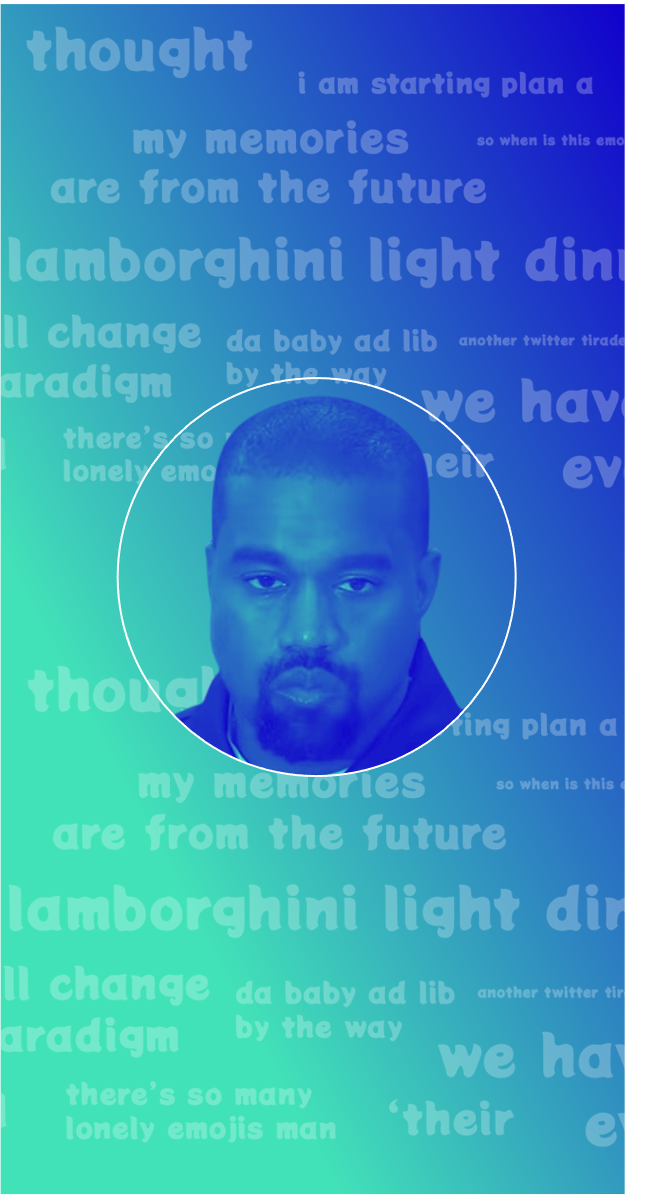
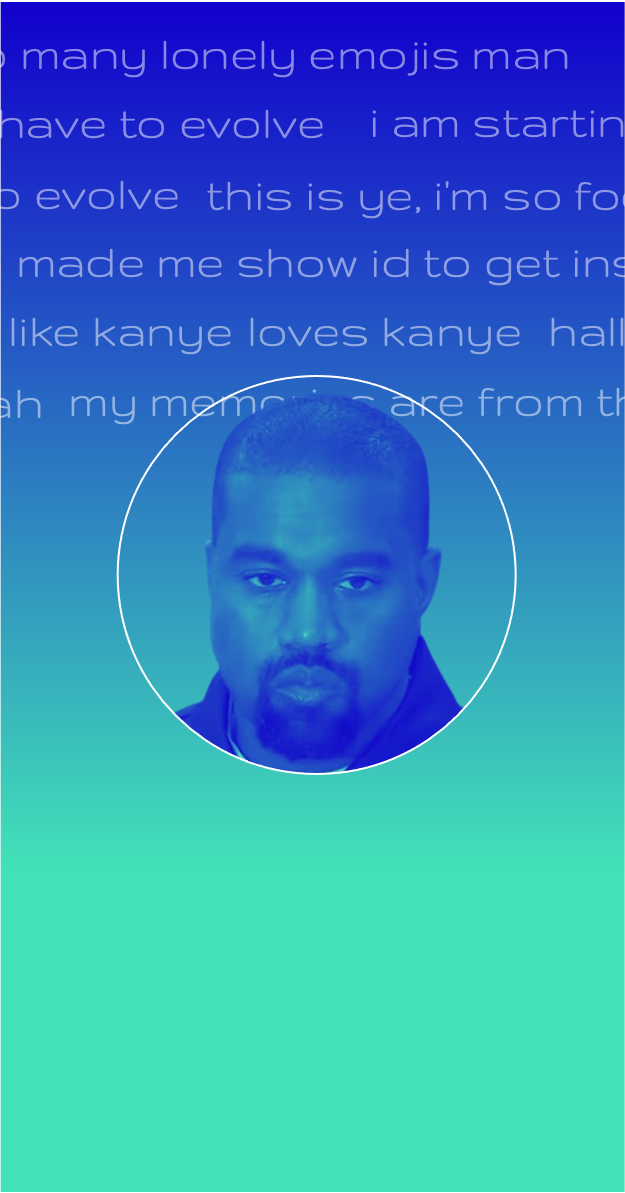
Updated font on website

diff --git a/web/index.html b/web/index.html
@@ -8,7 +8,7 @@
         <link href="https://fonts.googleapis.com/icon?family=Material+Icons" rel="stylesheet"><!--Google Icons-->
         <script src="Default/Script/jquery-3.6.0.min.js"></script>
         <style>
-            #tweet-cloud-banner {background-image:url(Assets/Images/ye_say/ye_tweet_cloud.png);}
+            #tweet-cloud-banner {background-image:url(Assets/Images/ye_say/ye_tweet_lyric_cloud.png);}
             #kanye-stpablo-banner {background-image: url(Assets/Images/Kanye_West_Saint_Pablo_Tour.jpg);}
         </style>
     </head>
@@ -104,9 +104,10 @@
                     <p>
                         Ye Say (pronounced YAY-SAY) is the world's most powerful Discord bot. Driven by <a href="https://twitter.com/KanyeWest/" target="_blank" rel="noreferrer noopener">@KanyeWest</a>, one of the intellectual pioneers of our time, Ye-Say provides intelligent solutions to even the most complex questions<sup>1</sup>.
                     </p>
-                    <img class="img-main" src="Assets/Images/ye_say/iPhone_Mockup/ye_say_mockup-banner_iphone13prographite_portrait.png" alt="Kanye on the iPhone">
+                    <img class="img-main" src="Assets/Images/ye_say/iPhone_Mockup/ye_say_mockup-banner_iphonesewhite_portrait.png" alt="Kanye on the iPhone">
                     <h2>From Ye, to You.</h2>
                     <p>Responsibly sourced insights, because psychic spying is naughty.</p>
+                    <div class="spacer"></div>
                     <div class="grid-container two-columns">
                         <div>
                             <div class="icon-lg">
@@ -114,7 +115,7 @@
                                     <span class="material-icons">chat_bubble</span>
                                 </div>
                             </div>
-                            <h2>Tweets</h2>
+                            <h3>Tweets</h3>
                             <p>When aren't off-the-cuff opinions helpful?</p>
                         </div>
                         <div>
@@ -123,10 +124,11 @@
                                     <span class="material-icons">headset</span>
                                 </div>
                             </div>
-                            <h2>Beats</h2>
+                            <h3>Beats</h3>
                             <p>Bask in inspiration from Kanye's wildest lyrics.</p>
                         </div>
                     </div>
+                    <div class="spacer"></div>
                 </div>
             </div>
             <div class="hero-banner" id="kanye-stpablo-banner">

diff --git a/web/Default/Style/master.css b/web/Default/Style/master.css
@@ -1,5 +1,6 @@
 /*Import Fonts from Google*/
-@import url('https://fonts.googleapis.com/css2?family=Montserrat:wght@100;200;400;700&family=Potta+One&display=swap');
+@import url('https://fonts.googleapis.com/css2?family=Gruppo&family=Montserrat:wght@100;400;700&display=swap');
+
 * {
     box-sizing: border-box;
 }
@@ -21,7 +22,7 @@ body {
     --padding-std: 65px;
     /*Font*/
     --font-body: 'Montserrat', sans-serif;
-    --font-accent: 'Potta One', sans-serif;
+    --font-accent: 'Gruppo', sans-serif;
     /*Colors*/
     --color-text-dark: 48, 50, 61;
     --color-text-light: 251, 251, 251;
@@ -95,6 +96,11 @@ noscript {
 .big-text {
     font-size: 3em;
     font-family: var(--font-accent);
+    text-transform: lowercase;
+}
+h2 {
+    font-family: var(--font-accent);
+    font-size: 2.25em;
     text-transform: lowercase;
 }
 .material-icons {

diff --git a/tweets_and_lyrics/random_tweet_lyric.py b/tweets_and_lyrics/random_tweet_lyric.py
@@ -29,14 +29,15 @@ def YeRandomLyrics():
     RandomLyrics = random.choice(ReadLyrics[1:])
     RandomLyrics = RandomLyrics.split(",")
     
-    for lyric in RandomLyrics:
+    for lyric in  RandomLyrics:
         song = RandomLyrics[0]
         date = str(RandomLyrics[1])
         lyric = str(RandomLyrics[2])
         
+        return lyric
+        
         # lyric = lyric + "\n"  + song + "\n" + date + "\n"
         
-    return lyric
 
 def tweet_or_lyric():
     ye_response = random.randint(1, 2)
